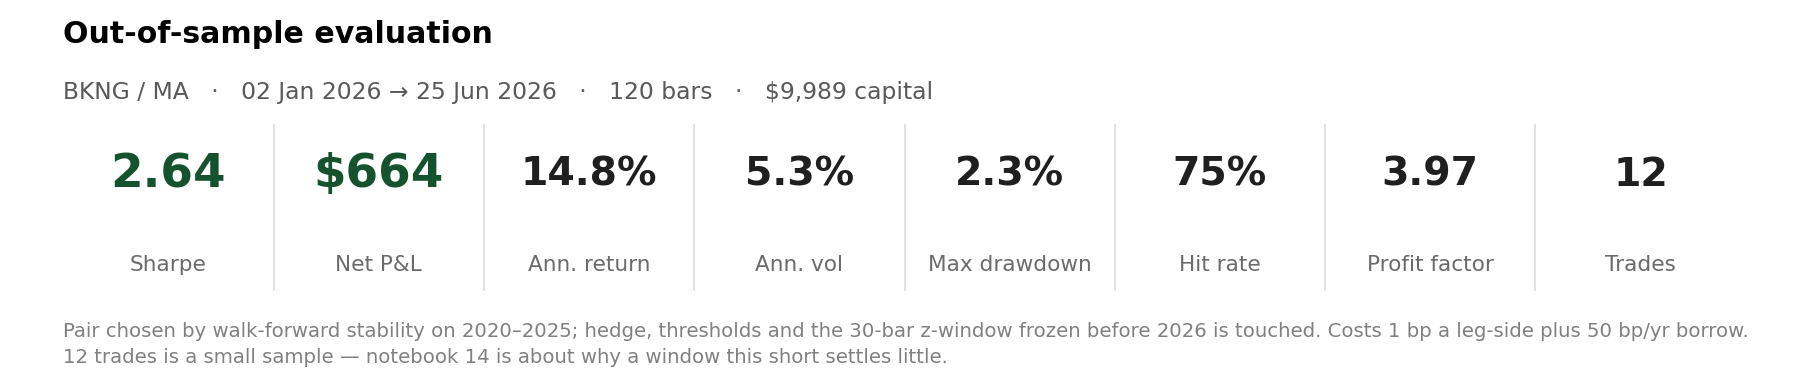
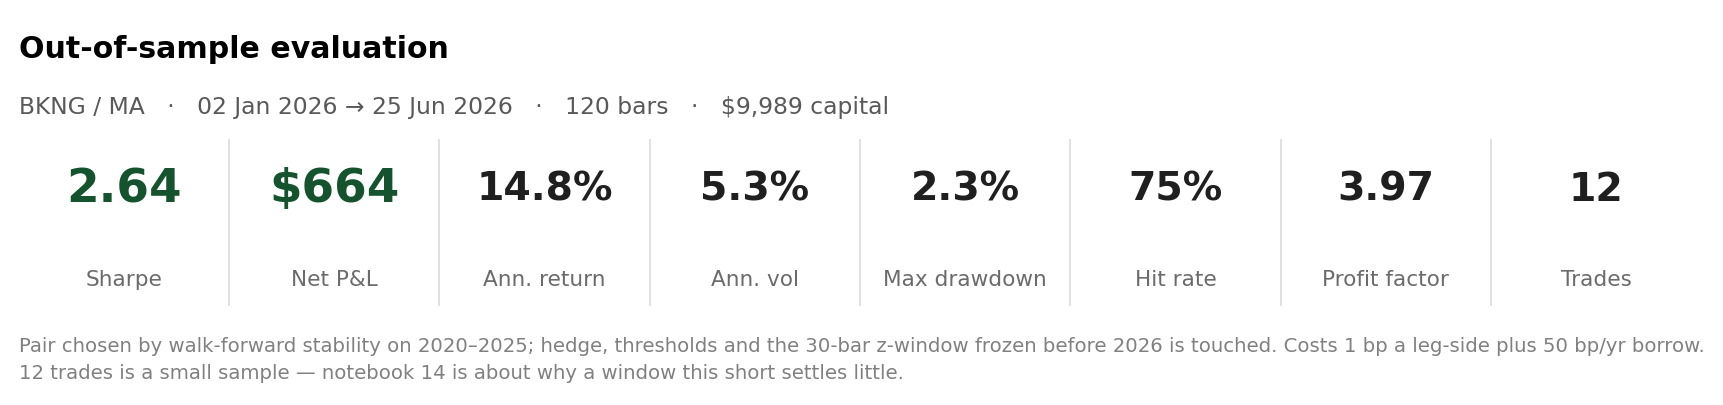
Fix the clipped legend in the README figure, and cite the two papers
The z-score panel's legend has seven entries and sat outside the axes, but the
figure was saved without bbox_inches="tight", so "open short spread" and "close"
ran off the right edge. Saving with a tight bounding box lets the canvas grow to
enclose the legends; the panel legends are also single-column now rather than
two, which is what made the widest label overflow. Verified by measuring the
clear right margin in the rendered PNG: 32 px on the plot, 20 px on the strip.

References gains four entries, led by the two papers this session worked through:

- Eroglu, Miller & Yigit (2021), Time-Varying Cointegration and the Kalman
  Filter -- the spurious-regression result notebook 07 implements, with the
  100% false-positive rate measured at this repo's own price scale;
- Grande & Borondo (2025), Embedding Pairs Trading in Market Networks -- the
  peripheral-pairs claim notebook 13 replicates and largely fails to confirm.

Plus the two method papers notebook 13 depends on: Pozzi, Di Matteo & Aste
(2013) for the X/Y centrality indices, and Tumminello et al. (2005) with
Massara, Di Matteo & Aste (2016) for the PMFG and TMFG filters.

diff --git a/figures/make_readme_figures.py b/figures/make_readme_figures.py
@@ -107,17 +107,20 @@ def figure_signals(df_pair_te, sig, z_window):
         leg = ax.get_legend()
         if leg is not None:
             leg.remove()
-    for ax, n in zip(axes, (1, 1, 2)):
+    for ax in axes:
         ax.legend(loc="upper left", bbox_to_anchor=(1.004, 1.0), fontsize=11.5,
-                  frameon=False, ncol=n, handlelength=1.6, labelspacing=0.45)
+                  frameon=False, ncol=1, handlelength=1.6, labelspacing=0.45)
     axes[0].set_title(f"{T1} / {T2} — out of sample, 2026    "
                       "(shaded = in a position)", fontsize=16, pad=12)
     axes[2].set_title("Spread z-score: entries when it leaves the band, exits as it reverts",
                       fontsize=13.5, pad=8)
     for t in axes[2].texts:
         t.set_fontsize(10.5)
-    fig.subplots_adjust(left=0.062, right=0.815, top=0.935, bottom=0.075, hspace=0.34)
-    fig.savefig(OUT / "signals.png", dpi=135, facecolor="white")
+    fig.subplots_adjust(left=0.062, right=0.788, top=0.935, bottom=0.075, hspace=0.34)
+    # bbox_inches="tight" grows the canvas to enclose the legends, which sit outside the axes;
+    # without it the widest label ("open short spread") is clipped at the right edge.
+    fig.savefig(OUT / "signals.png", dpi=135, facecolor="white", bbox_inches="tight",
+                pad_inches=0.16)
     plt.close(fig)
 
 
@@ -160,7 +163,8 @@ def figure_evaluation(summary, z_window):
             "this short settles little.",
             fontsize=10.5, color="0.5", va="top", linespacing=1.5)
     fig.subplots_adjust(left=0.035, right=0.965, top=0.99, bottom=0.01)
-    fig.savefig(OUT / "backtest.png", dpi=135, facecolor="white")
+    fig.savefig(OUT / "backtest.png", dpi=135, facecolor="white", bbox_inches="tight",
+                pad_inches=0.14)
     plt.close(fig)
 
 

diff --git a/README.md b/README.md
@@ -577,3 +577,7 @@ positive. Single-window metrics for that pair:
 - Benjamini, Y., & Hochberg, Y. (1995). *Controlling the False Discovery Rate: A Practical and Powerful Approach to Multiple Testing.*
 - Almgren, R., & Chriss, N. (2001). *Optimal Execution of Portfolio Transactions.* — square-root market impact model.
 - Brown, R. L., Durbin, J., & Evans, J. M. (1975). *Techniques for Testing the Constancy of Regression Relationships over Time.* — CUSUM test for structural change.
+- Eroğlu, B. A., Miller, J. I., & Yiğit, T. (2021). [*Time-Varying Cointegration and the Kalman Filter.*](https://doi.org/10.1080/07474938.2020.1861776) Econometric Reviews 40(4). — a Kalman filter with a time-varying coefficient forces a stationary residual out of two independent I(1) series, so stationarity of the Kalman spread is **not** evidence of cointegration; the remedy is to move the error into the state and test its persistence. Implemented and applied in [notebook 07](notebooks/pairs_trading_07_tv_cointegration_kalman_yahoo.ipynb), which measures a 100% false-positive rate at this repository's own price scale and default `q`.
+- Grande, M., & Borondo, J. (2025). [*Embedding Pairs Trading in Market Networks: A Network Science Approach to Portfolio Construction.*](https://doi.org/10.1057/s41599-025-05661-7) Humanities & Social Sciences Communications 12:1477. — filter the cointegration network to a PMFG/TMFG, rank assets by the Pozzi $X+Y$ index, and trade pairs from the **periphery**; reports better risk metrics than the top-cointegrated benchmark on 472 crypto tokens. Replicated on the day lake in [notebook 13](notebooks/pairs_trading_13_market_networks_day_lake.ipynb), where only the direction survives and the plain benchmark wins by eight times.
+- Pozzi, F., Di Matteo, T., & Aste, T. (2013). *Spread of Risk Across Financial Markets: Better to Invest in the Peripheries.* Scientific Reports 3:1665. — the $X$/$Y$ centrality indices notebook 13 uses.
+- Tumminello, M., Aste, T., Di Matteo, T., & Mantegna, R. N. (2005). *A Tool for Filtering Information in Complex Systems.* PNAS 102(30); Massara, G. P., Di Matteo, T., & Aste, T. (2016). *Network Filtering for Big Data: Triangulated Maximally Filtered Graph.* J. Complex Networks 5(2). — the PMFG and TMFG filters in `pairs.stats.network`.
